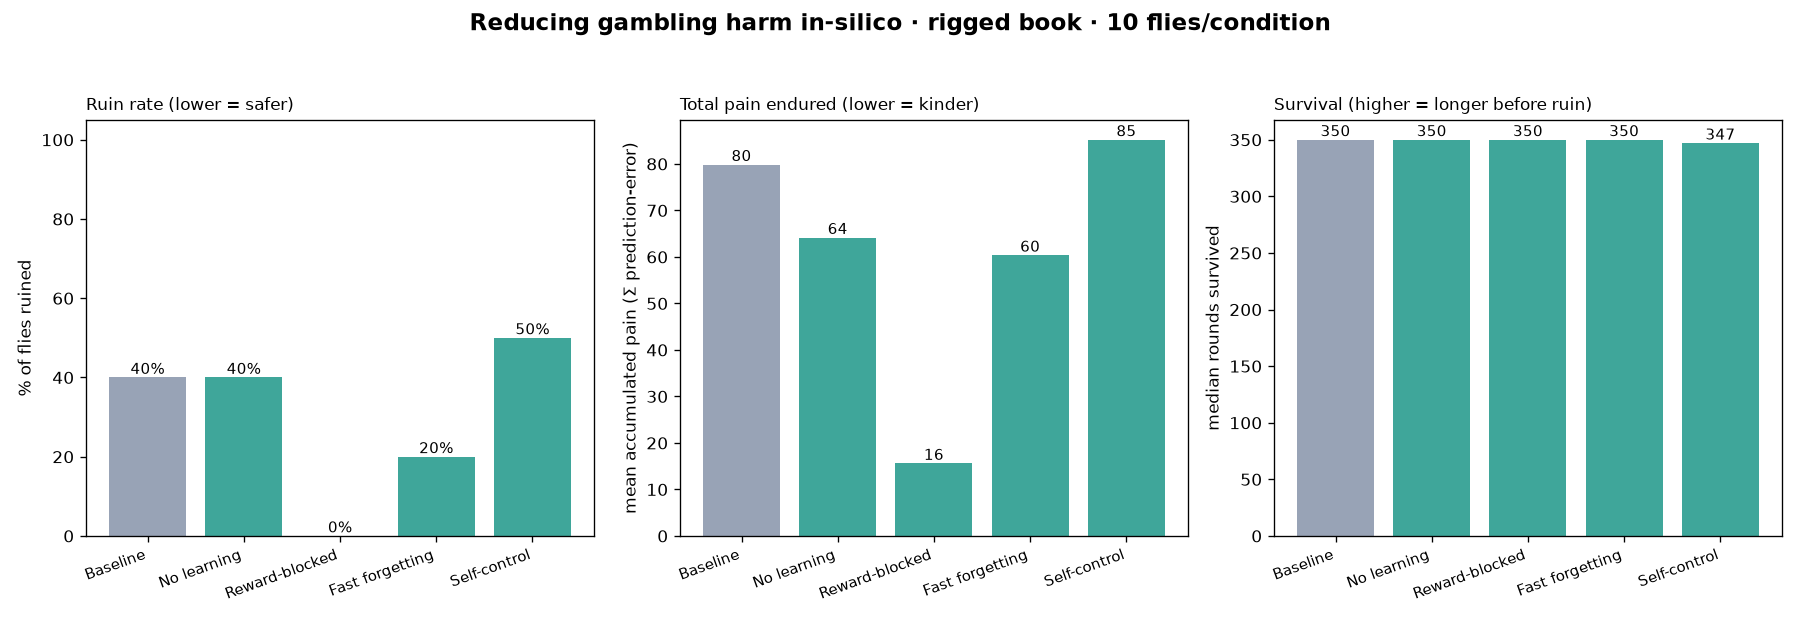
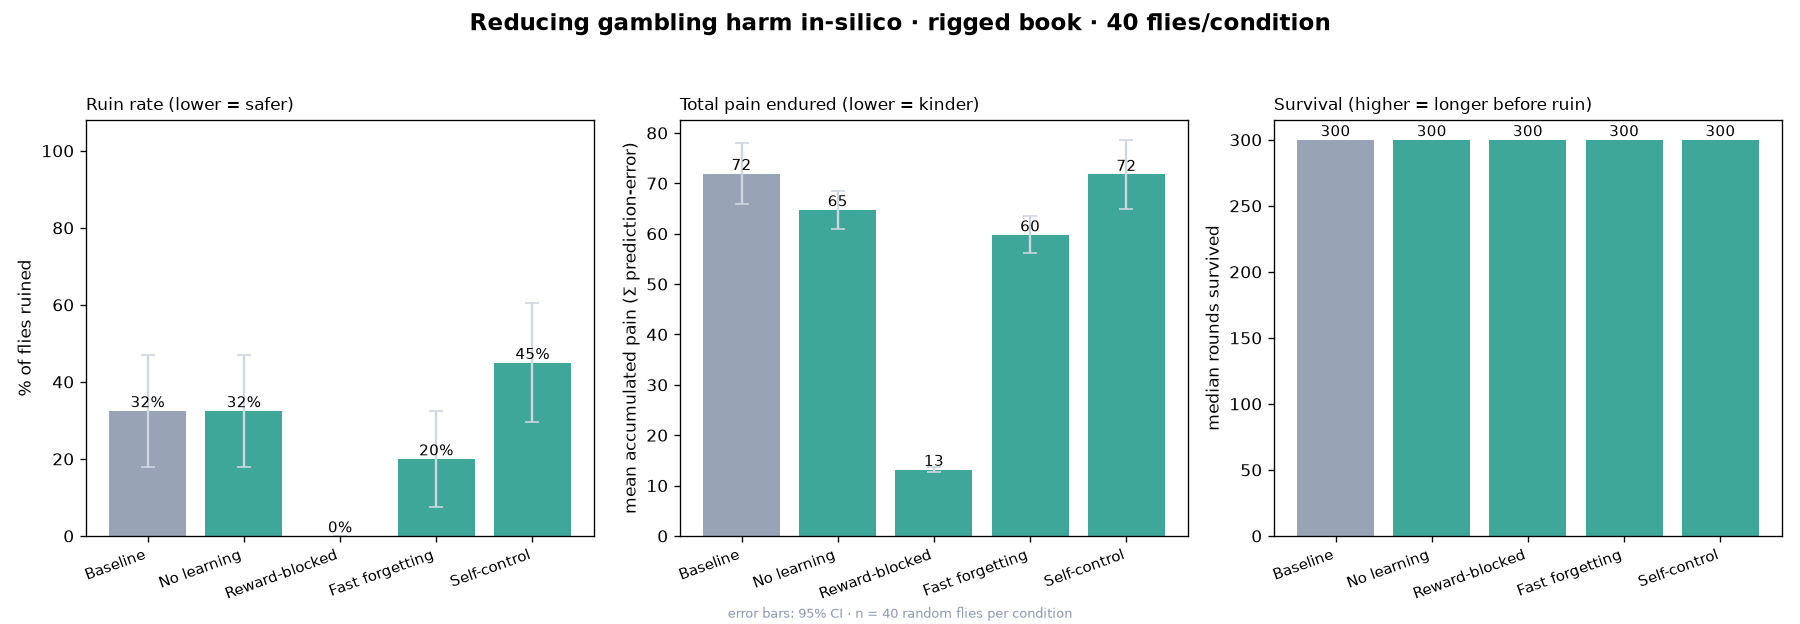
Refresh figures: n=40 error-barred interventions + gate-fixed temperament survival

diff --git a/README.md b/README.md
@@ -37,11 +37,12 @@ disengages, and stops — the sadness is *protective*.
 
 ![Chase vs. withdraw](assets/temperaments.png)
 
-**What reduces the harm?** Across random-fly populations on the rigged game, the
-innate pain fires in every condition, but the *path to ruin is learned*: **blocking
-win-driven reinforcement takes ruin ~40% → 0% and cuts pain ~80%**, while simply
-adding "self-control" doesn't help. The harm is a learned reinforcement loop —
-breaking that loop beats willpower.
+**What reduces the harm?** Across random-fly populations on the rigged game
+(n = 40 flies/condition, 95% CIs), the innate pain fires in every condition, but
+the *path to ruin is learned*: **blocking win-driven reinforcement takes ruin
+~32% → 0% and cuts pain ~80%**, while simply adding "self-control" (a higher
+betting threshold) doesn't help — if anything it's a touch worse. The harm is a
+learned reinforcement loop, and breaking that loop beats willpower.
 
 ![Interventions](assets/interventions.png)
 
